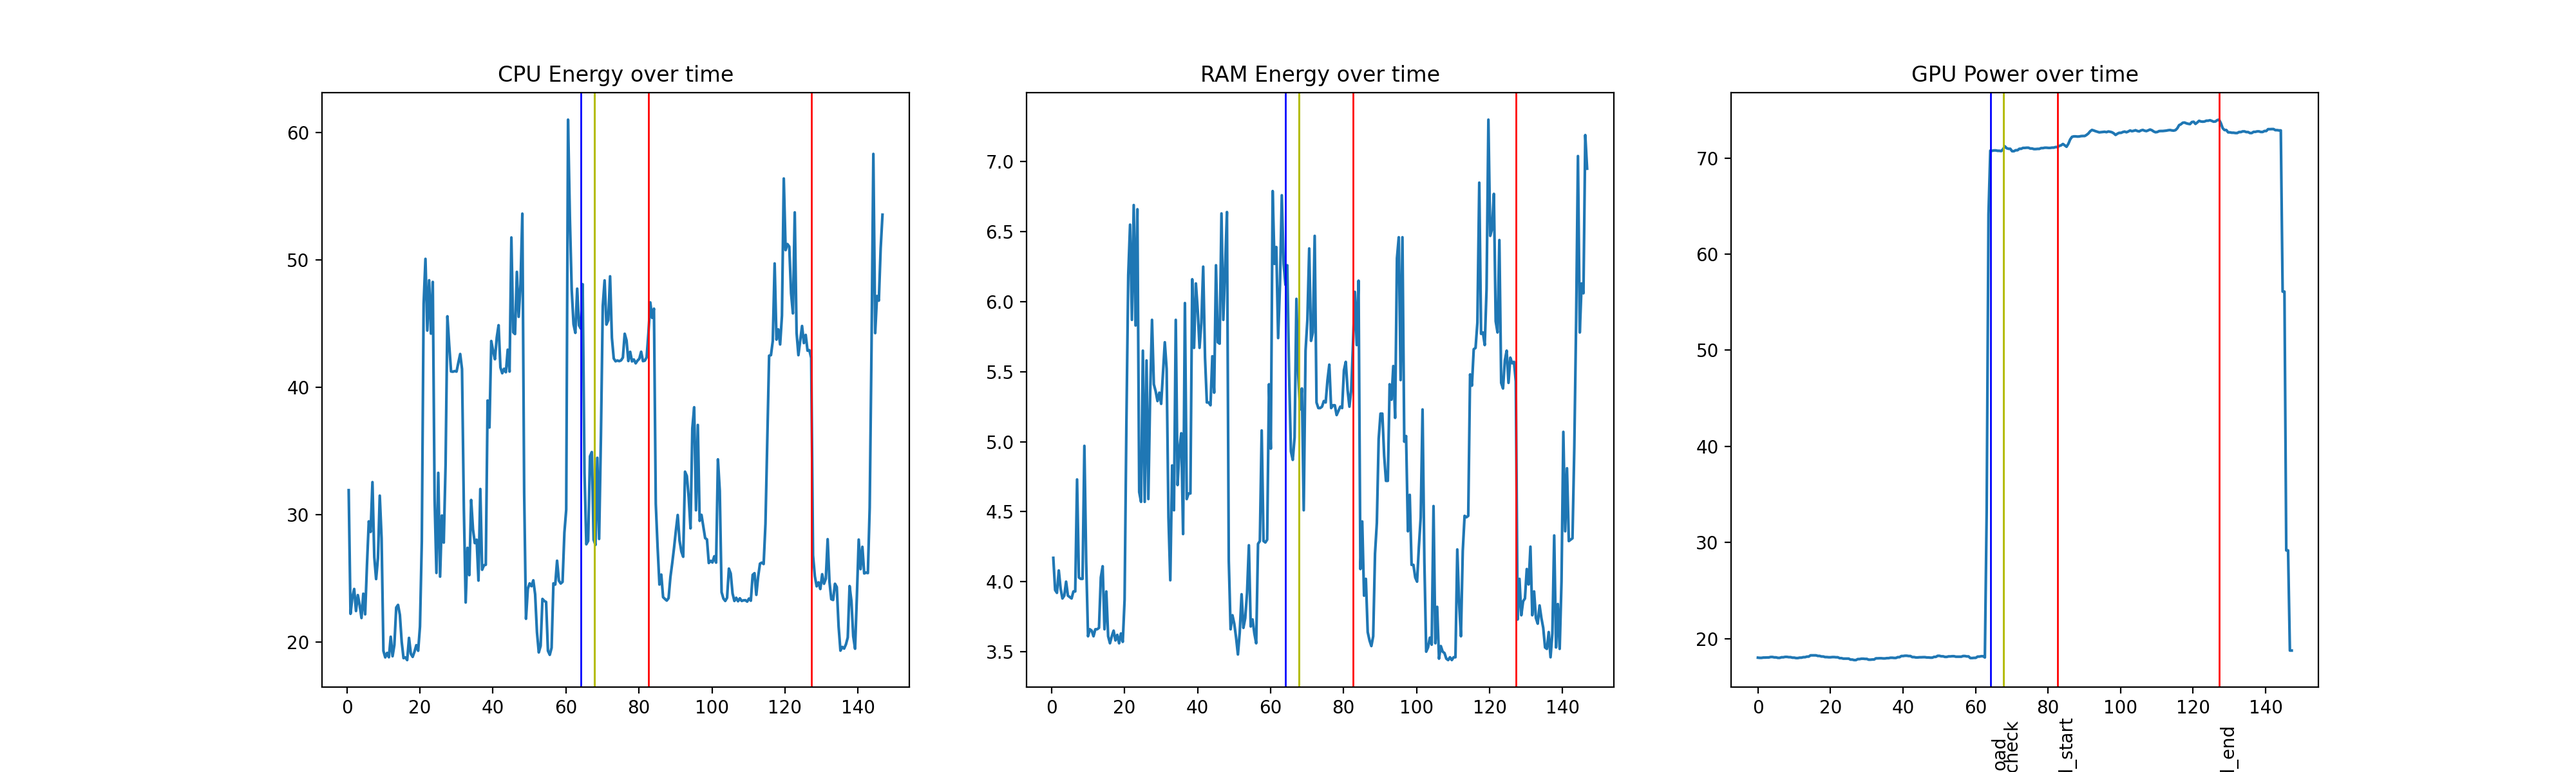
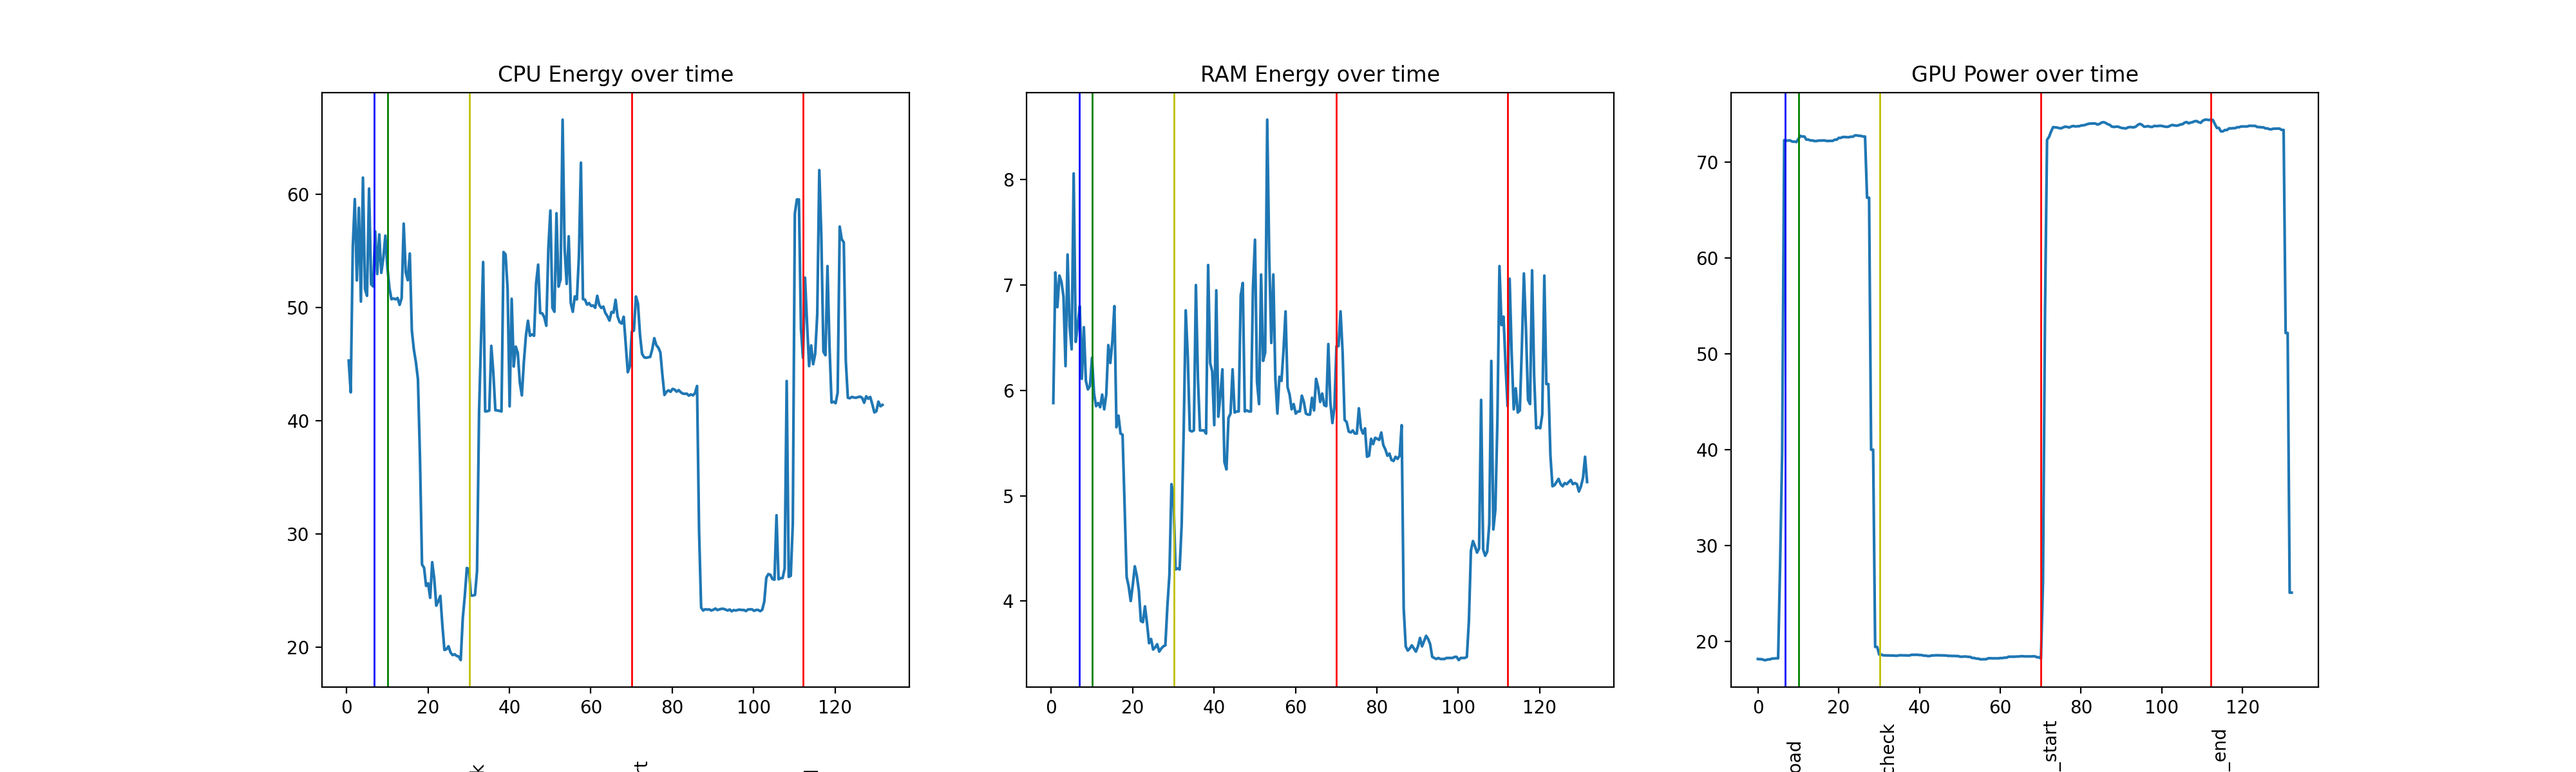
separate temperature low checks from energy stable checks on server, to reduce overhead and improve server stability

diff --git a/tool/server/flask_server.py b/tool/server/flask_server.py
@@ -3,17 +3,19 @@ Server to receive client requests to run ML methods and measure energy.
 """
 
 import time
-from datetime import datetime
 import os
 import logging
-import dill as pickle
+import atexit
+import json
 from statistics import mean, stdev
 from pathlib import Path
-import json
+from datetime import datetime
 from typing import List
+from werkzeug.security import check_password_hash
+import dill as pickle
 from flask import Flask, Response, request
 from flask_httpauth import HTTPBasicAuth
-from werkzeug.security import check_password_hash
+from tool.server.start_measurement import start_sensors, quit_process, unregister_and_quit_process
 
 # server settings
 from tool.server.server_config import API_PATH, DEBUG, SERVER_HOST, SERVER_PORT, USERS, CA_CERT_PATH, CA_KEY_PATH
@@ -34,6 +36,10 @@ auth = HTTPBasicAuth()
 logging.basicConfig(filename='flask.log', level=logging.DEBUG,
                     format='%(asctime)s %(levelname)s %(name)s %(message)s')
 
+
+"""
+Authentication
+"""
 
 @auth.verify_password
 def verify_password(username, password):
@@ -56,10 +62,37 @@ def auth_error(status_code):
     )
     return response
 
+"""
+Energy & temperature data loaders for stable check
+"""
 
-def load_last_n_cpu_ram_gpu(n: int, perf_file: Path, nvidia_smi_file: Path, cpu_temperature_file: Path) -> tuple:
+def load_last_n_cpu_temperatures(n: int, cpu_temperature_file: Path) -> list:
     """
-    Helper method for is_stable_state to load the last n energy data points
+    Helper method for cpu_temperature_is_low to load the last n CPU temperature data points.
+    """
+    cpu_temperature = []
+    with open(cpu_temperature_file, 'r') as f:
+        cpu_temperature = f.read().splitlines(True)[-n:]
+    
+    # Note: CPU temperature reading frequency is lower/different to that of perf & nvidia-smi. Check config.py for the value.
+    last_n_cpu_temperatures = [float(line.strip(' ').split(CPU_FILE_SEPARATOR)[1]) for line in cpu_temperature]
+    return last_n_cpu_temperatures
+
+# load last n GPU data points from nvidia-smi file, used for GPU temperature & energy
+def load_last_n_gpu_lines(n: int, nvidia_smi_file: Path):
+    with open(nvidia_smi_file, 'r') as f:
+        return f.read().splitlines(True)[-n:]
+
+
+def load_last_n_gpu_temperatures(n: int, nvidia_smi_file: Path) -> list:
+    gpu = load_last_n_gpu_lines(n, nvidia_smi_file)
+    last_n_gpu_temperatures = [int(line.split(' ')[4]) for line in gpu]
+    return last_n_gpu_temperatures
+
+
+def load_last_n_cpu_ram_gpu_energies(n: int, perf_file: Path, nvidia_smi_file: Path) -> tuple:
+    """
+    Helper method for server_is_stable_check to load the last n energy data points
     for CPU, RAM and GPU (in this order)
     """
 
@@ -68,33 +101,19 @@ def load_last_n_cpu_ram_gpu(n: int, perf_file: Path, nvidia_smi_file: Path, cpu_
     with open(perf_file, 'r') as f:
         # get all lines initially, since otherwise we cannot be sure which values are RAM and which are CPU
         cpu_ram = f.read().splitlines(True)
-
-    # load GPU data
-    gpu = []
-    with open(nvidia_smi_file, 'r') as f:
-        gpu = f.read().splitlines(True)[-n:]
     
-    # load CPU temperature data
-    cpu_temperature = []
-    with open(cpu_temperature_file, 'r') as f:
-        cpu_temperature = f.read().splitlines(True)[int(-n/CPU_TEMPERATURE_INTERVAL_S):]
+    gpu = load_last_n_gpu_lines(n, nvidia_smi_file)
 
     # generate lists of data
     last_n_cpu_energies = [float(line.strip(' ').split(CPU_FILE_SEPARATOR)[1]) for line in cpu_ram[2::2][-n:]]
     last_n_ram_energies = [float(line.strip(' ').split(CPU_FILE_SEPARATOR)[1]) for line in cpu_ram[3::2][-n:]]
-    # create two lists from the nvidia-smi file, one with energy readings and one with temperatures
-    last_n_gpu_energies = []
-    last_n_gpu_temperatures = []
-    for line in gpu:
-        split_line = line.split(' ')
-        last_n_gpu_energies.append(float(split_line[2]))
-        last_n_gpu_temperatures.append(int(split_line[4]))
+    last_n_gpu_energies = [float(line.split(' ')[2]) for line in gpu]
 
-    # Note: CPU temperature reading frequency is lower/different to that of perf & nvidia-smi. Check config.py for the value.
-    last_n_cpu_temperatures = [float(line.strip(' ').split(CPU_FILE_SEPARATOR)[1]) for line in cpu_temperature]
+    return last_n_cpu_energies, last_n_ram_energies, last_n_gpu_energies
 
-    return last_n_cpu_energies, last_n_ram_energies, last_n_gpu_energies, last_n_cpu_temperatures, last_n_gpu_temperatures
-
+"""
+Stable check: temperature and energy
+"""
 
 # compare the energy data's standard deviation/mean ratio to that found in a stable state and allow for a tolerance
 def energy_is_stable(data: List[float], tolerance: float, stable_std_mean_ratio: float) -> bool:
@@ -115,10 +134,45 @@ def temperature_is_low(data: List[int], maximum_temperature: int):
     return is_low
 
 
-def server_is_stable(max_wait_secs: int, wait_per_loop_s: int, tolerance: float, check_last_n_points: int, cpu_max_temp: int, gpu_max_temp: int) -> bool:
+def server_is_stable_check(check_last_n_points: int, tolerance: float) -> bool:
     """
-    Return True only when the system's energy consumption is stable.
-    Settings that determine what "stable" means can be found in config.py.
+    Return True if all the energy data series are stable
+    Settings that determine what "stable" means can be found in server_config.py.
+    """
+    cpu_energies, ram_energies, gpu_energies = load_last_n_cpu_ram_gpu_energies(check_last_n_points, PERF_FILE, NVIDIA_SMI_FILE)
+    if (
+        energy_is_stable(gpu_energies, tolerance, GPU_STD_TO_MEAN) and
+        energy_is_stable(cpu_energies, tolerance, CPU_STD_TO_MEAN) and
+        energy_is_stable(ram_energies, tolerance, RAM_STD_TO_MEAN)
+    ):
+        print("Success: Server is stable.")
+        return True
+    else:
+        print("Server is not stable yet.")
+        return False
+
+
+def temperature_is_low_check(check_last_n_points: int, cpu_max_temp: int, gpu_max_temp: int) -> bool:
+    """
+    Tet the latest CPU & GPU temperatures and check that they are below threshold.
+    Return True if both are below threshold, else return False. Settings can be found in server_config.py.
+    """
+    cpu_temperatures = load_last_n_cpu_temperatures(check_last_n_points, CPU_TEMPERATURE_FILE)
+    gpu_temperatures = load_last_n_gpu_temperatures(check_last_n_points, NVIDIA_SMI_FILE)
+    if (
+        temperature_is_low(gpu_temperatures, gpu_max_temp) and
+        temperature_is_low(cpu_temperatures, cpu_max_temp)
+    ):
+        print("Success: temperature is below threshold.")
+        return True
+    else:
+        print("Temperature is too high.")
+        return False 
+
+
+def run_check_loop(max_wait_secs: int, wait_per_loop_s: int, check_name: str, check_function: callable, *args):
+    """
+    Return True if the given check_function returns True at some point, else return False.
     """
     # For testing purposes
     if max_wait_secs == 0:
@@ -127,24 +181,16 @@ def server_is_stable(max_wait_secs: int, wait_per_loop_s: int, tolerance: float,
     # in each loop iteration, load new data, calculate statistics and check if the energy is stable.
     # try this for the specified number of seconds
     for _ in range(int(max_wait_secs/wait_per_loop_s)):
-        print(f"Waiting {wait_per_loop_s} seconds to reach stable state.\n")
+        print(f"Waiting {wait_per_loop_s} seconds to reach {check_name}.\n")
         time.sleep(wait_per_loop_s)
-
-        cpu_energies, ram_energies, gpu_energies, cpu_temperatures, gpu_temperatures = load_last_n_cpu_ram_gpu(check_last_n_points, PERF_FILE, NVIDIA_SMI_FILE, CPU_TEMPERATURE_FILE)
-        if (
-            temperature_is_low(gpu_temperatures, gpu_max_temp) and
-            energy_is_stable(gpu_energies, tolerance, GPU_STD_TO_MEAN) and
-            energy_is_stable(cpu_energies, tolerance, CPU_STD_TO_MEAN) and
-            energy_is_stable(ram_energies, tolerance, RAM_STD_TO_MEAN) and
-            temperature_is_low(cpu_temperatures, cpu_max_temp)
-        ):
-            print("Server is stable.")
+        if check_function(*args):
             return True
-        else:
-            print("Server is not stable yet.")
-            continue
+        
     return False
 
+"""
+Energy & temperature data loaders for the server response
+"""
 
 def get_current_times(perf_file: Path, nvidia_smi_file: Path):
     with open(perf_file, 'r') as f:
@@ -177,6 +223,10 @@ def get_cpu_temperature_data():
     return df_cpu_temperature.to_json(orient="split")
 
 
+"""
+Core functions
+"""
+
 def run_function(imports: str, function_to_run: str, obj: object, args: list, kwargs: dict, max_wait_secs: int, wait_after_run_secs: int, return_result: bool):
     """
     Run the method given by function_to_run with the given arguments (args) and keyword arguments (kwargs).
@@ -186,15 +236,27 @@ def run_function(imports: str, function_to_run: str, obj: object, args: list, kw
     """
     # WARNING: potential security risk from exec and eval statements
 
+    # (0) start the cpu temperature measurement process
+    sensors = start_sensors()
+    atexit.register(quit_process, sensors, "sensors")
+
     # (1) import relevant modules
     import_time = time.time_ns()
     app.logger.info("Imports value: %s", imports)
     exec(imports)
 
-    # (2) continue only when the system has reached a stable state of energy consumption
+    # (2) continue only when CPU & GPU temperatures are below threshold and the system has reached a stable state of energy consumption
+
+    # (2a) check that temperatures are below threshold, then quit the CPU temperature measurement process
+    if not run_check_loop(max_wait_secs, WAIT_PER_STABLE_CHECK_LOOP_S, "low temperature", temperature_is_low_check, CHECK_LAST_N_POINTS, CPU_MAXIMUM_TEMPERATURE, GPU_MAXIMUM_TEMPERATURE):
+        unregister_and_quit_process(sensors, "sensors")
+        raise TimeoutError(f"CPU could not cool down to {CPU_MAXIMUM_TEMPERATURE} within {max_wait_secs} seconds")
+    unregister_and_quit_process(sensors, "sensors")
+
+    # (2b) check that the CPU, RAM and GPU energy consumption is stable
     begin_stable_check_time = time.time_ns()
-    if not server_is_stable(max_wait_secs, WAIT_PER_STABLE_CHECK_LOOP_S, STABLE_CHECK_TOLERANCE, CHECK_LAST_N_POINTS, CPU_MAXIMUM_TEMPERATURE, GPU_MAXIMUM_TEMPERATURE):
-        raise TimeoutError(f"System could not reach a stable state within {max_wait_secs} seconds")
+    if not run_check_loop(max_wait_secs, WAIT_PER_STABLE_CHECK_LOOP_S, "stable state", server_is_stable_check, CHECK_LAST_N_POINTS, STABLE_CHECK_TOLERANCE):
+        raise TimeoutError(f"Server could not reach a stable state within {max_wait_secs} seconds")
 
     # (3) evaluate the function return. Mark the start & end times in the files and save their exact values.
     # TODO potentially correct here for the small time offset created by fetching the times for the files. We can use the server times for this.

diff --git a/tool/server/start_measurement.py b/tool/server/start_measurement.py
@@ -18,16 +18,22 @@ from tool.server.server_config import COUNT_INTERVAL_MS, CPU_FILE_SEPARATOR
 from tool.server.server_config import NVIDIA_SMI_FILE, PERF_FILE, SERVER_MODULE, START_TIMES_FILE, EXECUTION_LOG_FILE, CPU_TEMPERATURE_MODULE, CPU_TEMPERATURE_FILE
 
 
+def quit_process(process: Popen, message: str):
+    process.terminate()
+    print(f"Terminated {message}")
 
+def unregister_and_quit_process(process: Popen, message: str):
+    """
+    This will unregister all instances of quit_process in the local interpreter, so use carefully.
+    Used by flask_server.py to quit the CPU temperature process.
+    """
+    atexit.unregister(quit_process)
+    quit_process(process, message)
 
 # function registered atexit by start_measurements to terminate the measurement programs
-def cleanup(perf_stat, nvidia_smi, sensors):
-    sensors.terminate()
-    print("Terminated sensors")
-    nvidia_smi.terminate()
-    print("Terminated nvidia smi")
-    perf_stat.terminate()
-    print("Terminated perf stat")
+def cleanup(perf_stat, nvidia_smi):
+    quit_process(nvidia_smi, "nvidia smi")
+    quit_process(perf_stat, "perf stat")
 
 
 # start the flask server & make sure it is terminated when start_measurement is quit
@@ -99,26 +105,23 @@ def write_start_times(perf_start_time, nvidia_smi_start_time, server_start_time)
 def start_measurements(server_start_time):
     perf_stat, perf_start_time = start_perf()
     nvidia_smi, nvidia_smi_start_time = start_nvidia()
-    sensors = start_sensors()
-    atexit.register(cleanup, perf_stat=perf_stat, nvidia_smi=nvidia_smi, sensors=sensors)
+    atexit.register(cleanup, perf_stat=perf_stat, nvidia_smi=nvidia_smi)
 
     write_start_times(perf_start_time, nvidia_smi_start_time, server_start_time)
-    return perf_stat, nvidia_smi, sensors
+    return perf_stat, nvidia_smi
 
 
 # quit, cleanup and restart all measurement programs in a way that avoids any file corruptions to the energy_measurement/out files
-def restart_measurements(previous_perf_stat, previous_nvidia_smi, previous_sensors, latest_execution, server_start_time):
+def restart_measurements(previous_perf_stat, previous_nvidia_smi, latest_execution, server_start_time):
     # unregister the previous cleanup function
     atexit.unregister(cleanup)
     # terminate the previous processes
-    previous_sensors.terminate()
-    print(f"Quit sensors after executing {latest_execution}")
     previous_nvidia_smi.terminate()
     print(f"Quit nvidia-smi after executing {latest_execution}")
     previous_perf_stat.terminate()
     print(f"Quit perf stat after executing {latest_execution}")
 
-    # delete the perf & nvidia-smi files
+    # delete the perf, nvidia-smi and sensors files
     if os.path.isfile(PERF_FILE) and os.path.isfile(NVIDIA_SMI_FILE) and os.path.isfile(CPU_TEMPERATURE_FILE):
             os.remove(PERF_FILE)
             os.remove(NVIDIA_SMI_FILE)
@@ -127,9 +130,9 @@ def restart_measurements(previous_perf_stat, previous_nvidia_smi, previous_senso
         raise OSError("Could not find and remove perf, nvidia & cpu temperature files")
 
     # restart the measurement programs
-    perf_stat, nvidia_smi, sensors = start_measurements(server_start_time)
+    perf_stat, nvidia_smi = start_measurements(server_start_time)
 
-    return perf_stat, nvidia_smi, sensors
+    return perf_stat, nvidia_smi
 
 
 if __name__ == "__main__":
@@ -138,7 +141,7 @@ if __name__ == "__main__":
     # (1) Start the server & energy measurement programs (perf stat & nvidia-smi).
     # Keep a reference to perf stat & nvidia-smi such that they can be terminated by the program.
     server_start_time = start_server()
-    perf_stat, nvidia_smi, sensors = start_measurements(server_start_time)
+    perf_stat, nvidia_smi = start_measurements(server_start_time)
 
     # (2) Create the server execution log file which keeps track of the functions executed.
     # Initialise previous_execution with the initial contents of the file.
@@ -157,7 +160,7 @@ if __name__ == "__main__":
             # When the server adds a new execution to the log file, we want to to restart perf & nvidia-smi to clear the energy measurement files
             if latest_execution != previous_execution:
                 # restart all programs, and update the references to point at the new processes
-                perf_stat, nvidia_smi, sensors = restart_measurements(perf_stat, nvidia_smi, sensors, latest_execution.split(";")[0], server_start_time)
+                perf_stat, nvidia_smi = restart_measurements(perf_stat, nvidia_smi, latest_execution.split(";")[0], server_start_time)
                 previous_execution = latest_execution
             
             # TODO this is an arbitary number, does it work well?

diff --git a/tool/server/server_config.py b/tool/server/server_config.py
@@ -77,7 +77,7 @@ TEMPERATURE MEASUREMENT CONFIG
 CPU_TEMPERATURE_MODULE = "cpu_temperature.py"
 # set cpu temperature measurement interval for sensors in seconds
 # the actual interval will be a few milliseconds greater, due to processing time
-CPU_TEMPERATURE_INTERVAL_S = 5
+CPU_TEMPERATURE_INTERVAL_S = 1
 # store CPU temperatures in this file, populated by cpu_temperature.py
 CPU_TEMPERATURE_FILE = energy_data_dir/"cpu_temperature.txt"
 # the maximum average temperature in degrees Celsius that we allow the CPU & GPU to be before executing a method (to determine stable state)

diff --git a/tool/demo/run_demo.py b/tool/demo/run_demo.py
@@ -175,4 +175,4 @@ def demo_start_end_time_graphing(max_wait_secs, wait_after_run_secs, epochs, res
 if __name__ == "__main__":
     # with open('methodcall_energy.json', 'r') as f:
     #     results = json.load(f)
-    demo_start_end_time_graphing(max_wait_secs=60, wait_after_run_secs=20, epochs=5) # results=results
+    demo_start_end_time_graphing(max_wait_secs=120, wait_after_run_secs=20, epochs=5) # results=results
